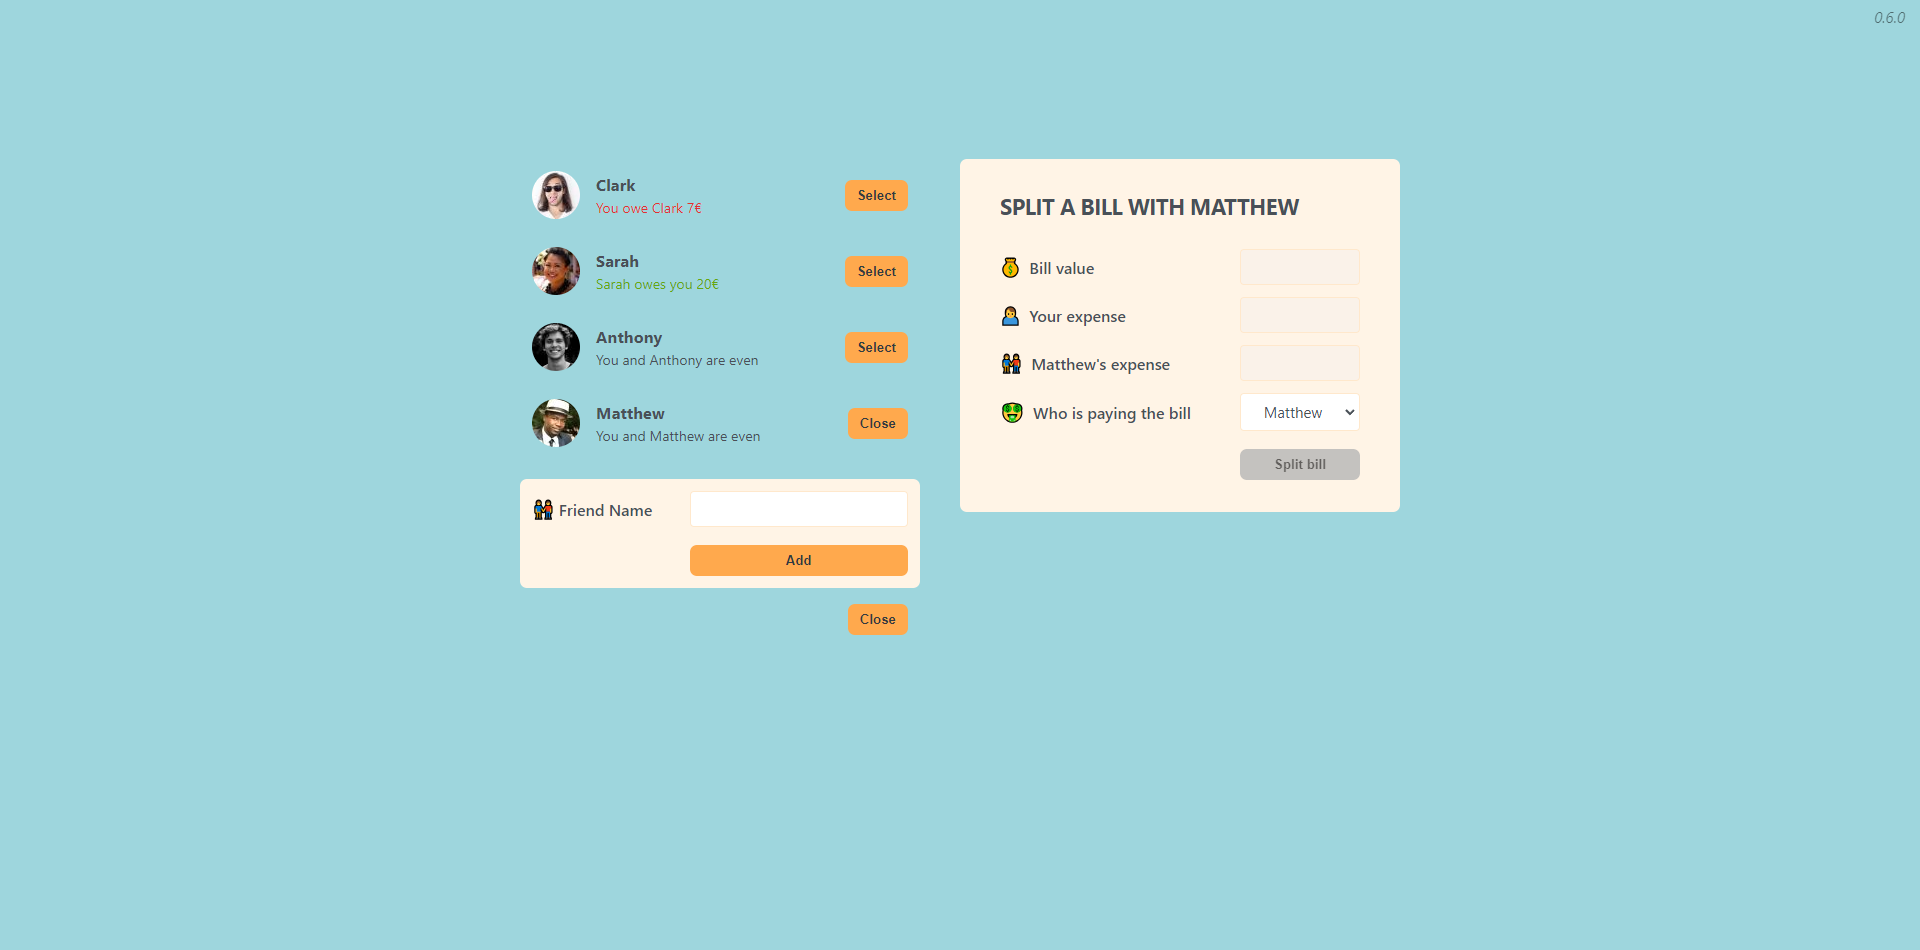
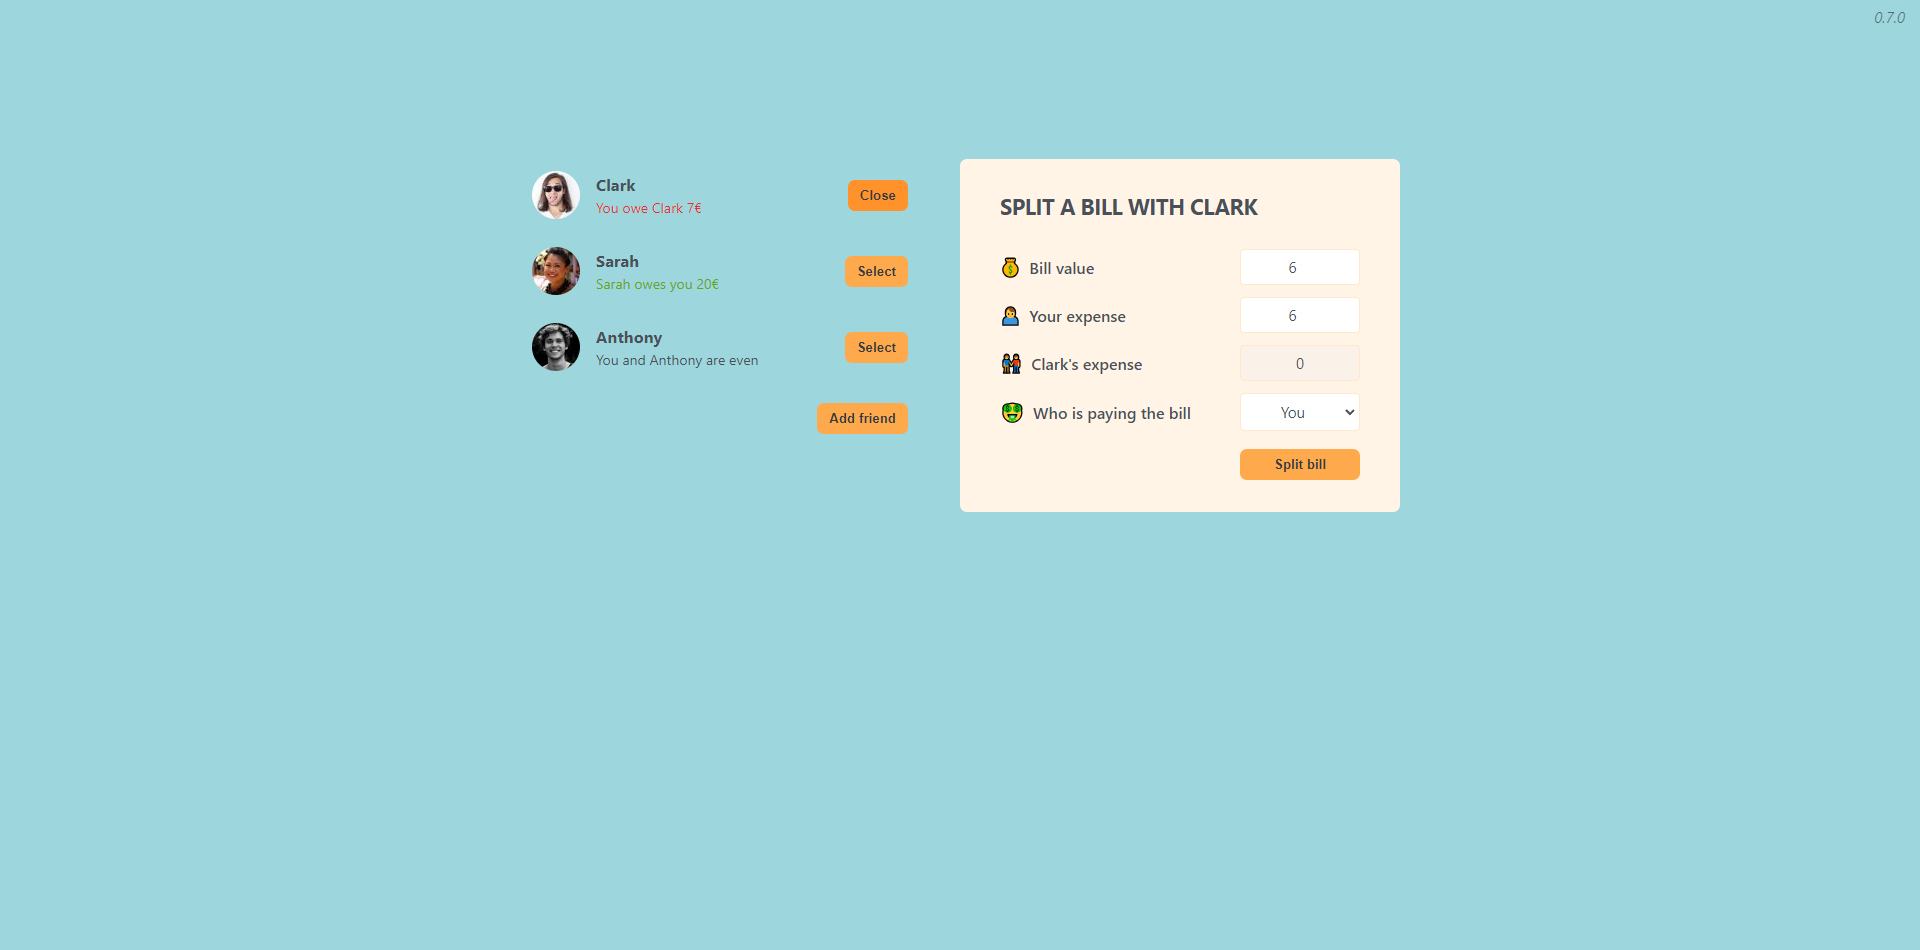
FAIR SHARE 0.7.0
Update Form Split Bill Inputs
Update App.js
Update index.css

diff --git a/src/components/App.js b/src/components/App.js
@@ -28,7 +28,7 @@ export default function App() {
         {showAddFriend && <FormAddFriend onAddFriend={handleAddFriend} />}
         <Button onClick={handleShowAddFriend}>{showAddFriend ? "Close" : "Add friend"}</Button>
       </div>
-      {selectedFriend && <FormSplitBill selectedFriend={selectedFriend} />}
+      {selectedFriend && <FormSplitBill selectedFriend={selectedFriend.name} />}
       <VersionWatermark />
     </div>
   )
@@ -61,14 +61,14 @@ function Friend({ friend, selectedFriend, onSelection }) {
           You and {friend.name} are even
         </p>
       )}
-      <Button onClick={() => onSelection(friend)}>{isSelected ? "Close" : "Select"}</Button>
+      <Button onClick={() => onSelection(friend)} selected={isSelected}>{isSelected ? "Close" : "Select"}</Button>
     </li>
   )
 }
 
-function Button({ children, onClick, disabled }) {
+function Button({ children, onClick, selected }) {
   return (
-    <button className={`button ${disabled ? "buttonDisabled" : ""}`} onClick={onClick} > {children}</button >
+    <button className={`button ${selected ? "button-selected" : ""}`} onClick={onClick} > {children}</button >
   )
 }
 
@@ -100,33 +100,49 @@ function FormAddFriend({ onAddFriend }) {
   )
 }
 
-function InputText({ children, value, setValue, disabled }) {
+function InputText({ children, value, setValue }) {
   return (
     <>
       <label>{children}</label>
-      <input type="text" value={value} onChange={(e) => setValue(e.target.value)} disabled={disabled} maxLength={10} />
+      <input type="text" value={value} onChange={(e) => setValue(e.target.value)} maxLength={10} />
     </>
   )
 }
 
 function FormSplitBill({ selectedFriend }) {
+  const [bill, setBill] = useState("");
+  const [paidByUser, setPaidByUser] = useState("");
+  const paidByFriend = bill ? bill - paidByUser : "";
+  const [whoIsPaying, setWhoIsPaying] = useState("user");
+
   return (
     <form className="form-split-bill">
-      <h2>Split a bill with {selectedFriend.name}</h2>
-      <InputText disabled="disabled">💰 Bill value</InputText>
-      <InputText disabled="disabled">🙍♂ Your expense</InputText>
-      <InputText disabled="disabled">👬 {selectedFriend.name}'s expense</InputText>
-      <InputSelect selectedFriend={selectedFriend.name} />
-      <Button disabled={true}>Split bill</Button>
+      <h2>Split a bill with {selectedFriend}</h2>
+      <label>💰 Bill value</label>
+      <input type="number" value={bill} onChange={(e) => setBill(Number(e.target.value))} maxLength={10} />
+      <label>🙍♂ Your expense</label>
+      <input type="number" value={paidByUser} onChange={(e) => setPaidByUser(Number(e.target.value) > bill ? paidByUser : Number(e.target.value))} maxLength={10} />
+      <InputReadOnly paidByFriend={paidByFriend}>👬 {selectedFriend}'s expense</InputReadOnly>
+      <InputSelect selectedFriend={selectedFriend} whoIsPaying={whoIsPaying} setWhoIsPaying={setWhoIsPaying}>🤑 Who is paying the bill</InputSelect>
+      <Button>Split bill</Button>
     </form>
   )
 }
 
-function InputSelect({ selectedFriend }) {
+function InputReadOnly({ children, paidByFriend }) {
   return (
     <>
-      <label>🤑 Who is paying the bill</label>
-      <select defaultValue="friend">
+      <label>{children}</label>
+      <input type="text" value={paidByFriend} disabled />
+    </>
+  )
+}
+
+function InputSelect({ children, selectedFriend, whoIsPaying, setWhoIsPaying }) {
+  return (
+    <>
+      <label>{children}</label>
+      <select value={whoIsPaying} onChange={(e) => setWhoIsPaying((e.target.value))}>
         <option value="user">You</option>
         <option value="friend">{selectedFriend}</option>
       </select>

diff --git a/src/index.css b/src/index.css
@@ -45,6 +45,7 @@ body {
   transition: 0.3s;
 }
 
+.button-selected,
 .button:hover {
   background-color: var(--color-dark);
 }

diff --git a/README.md b/README.md
@@ -10,7 +10,7 @@
 
 - **STACK :**
 
-  - **Fair Share** : `0.6.0`
+  - **Fair Share** : `0.7.0`
   - **React** : `18.3.1`
   - **React Dom** : `18.3.1`
 
